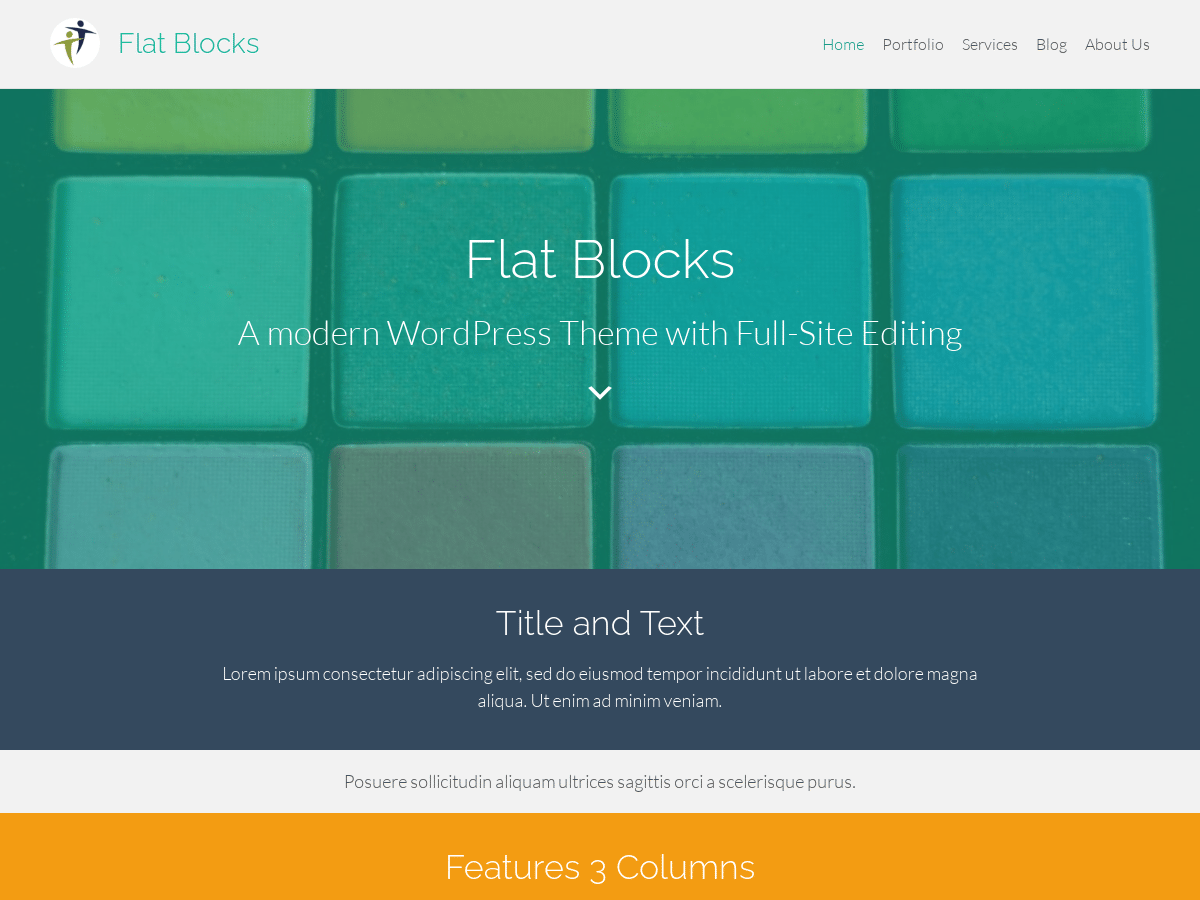
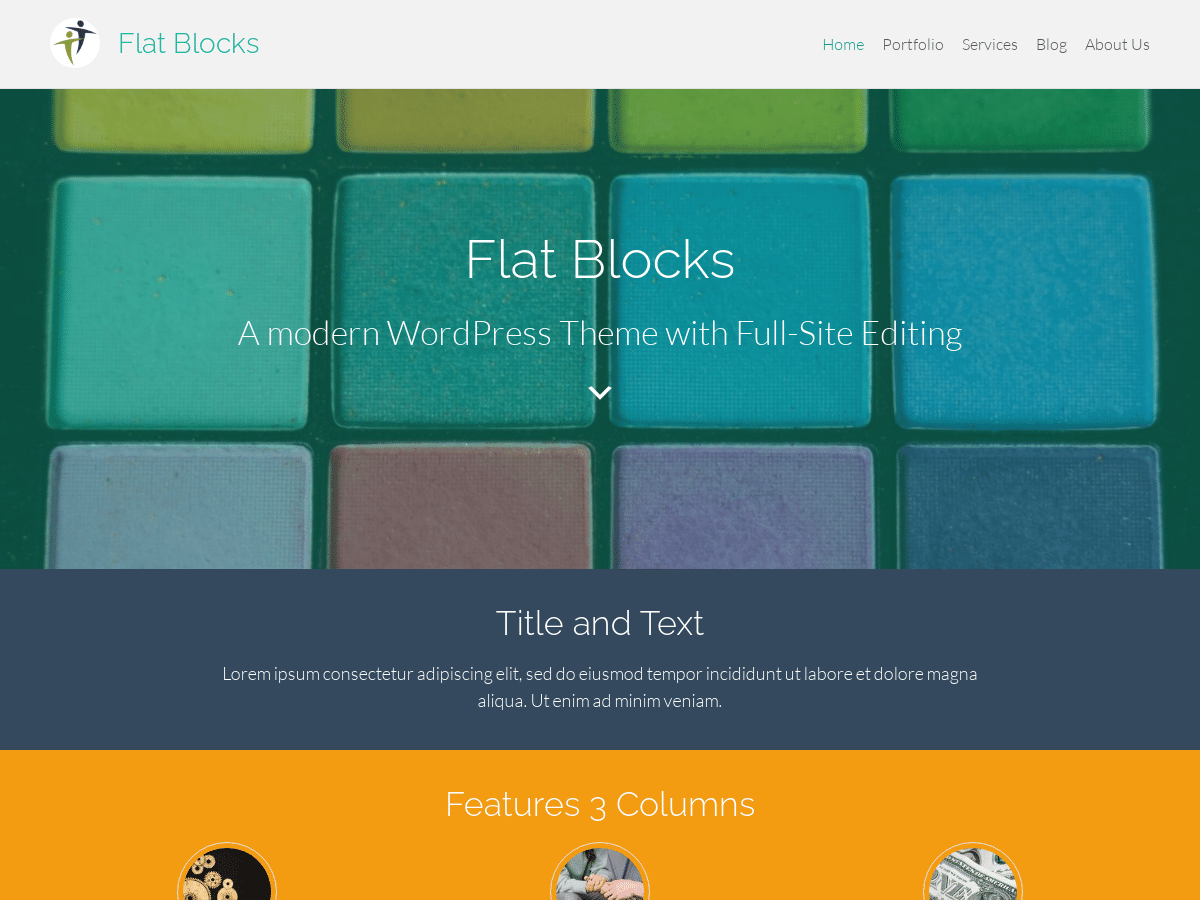
v1.3.4
* In header navigation, use the primary color as the link hover color. Note that if the header color is overriden by the user, this won't apply. The chosen color will just be lightened like it worked prior to this change.
* In header navigation, also highlight the current menu item (or parent item). By default, the primary color will be used (light green). On user-colored headers, bold will be used.
* Reduce default cover image overlay color to 40% (was 60%) on the colored block image to allow more of the image's natural colors to show through.
* Updated screenshot to reflect highlight of home page link and lightening of cover overlay in the site header.
* Remove automatically centering figure captions (image, table, etc.) since the user can specify what position they want it in.
* Added an anchor link of #wrapper at the top of each page for the theme preview on WordPress.org and for users with older navigation menus that point to that as it was the standard on older WordPress themes (before Block based themes). This theme uses #page and that still works as well.

diff --git a/assets/css/flat-blocks.css b/assets/css/flat-blocks.css
@@ -229,9 +229,9 @@ body .is-layout-constrained > .alignright {
 --------------------------------------------------------------*/
 
 /* Center captions by default */
-.wp-site-blocks figcaption {
+/**.wp-site-blocks figcaption {
 	text-align: center;
-}
+}**/
 
 /*--------------------------------------------------------------
 # Headings
@@ -301,6 +301,52 @@ h6.has-background {
     }
 }
 
+/* Navigation hover styles */
+.wp-block-group.site-header:not(.has-link-color) .wp-block-navigation__responsive-container:not(.has-text-color) .wp-block-navigation-item:hover,
+.wp-block-navigation__submenu-container:not(.has-text-color) .wp-block-navigation-item:hover,
+.wp-block-group.site-header:not(.has-link-color) .wp-block-navigation__responsive-container:not(.has-text-color) .wp-block-navigation-item__content:hover,
+.wp-block-navigation__submenu-container:not(.has-text-color) .wp-block-navigation-item__content:hover {
+	color: var(--wp--preset--color--primary-alt);
+	/*font-weight: var(--wp--custom--typography--font-weight--bold);*/
+	font-weight: inherit;
+}
+
+/* But on mobile nav, don't hover on non-clickable links */
+.wp-block-navigation__responsive-container.is-menu-open .wp-block-navigation-item.has-child.open-on-click > .wp-block-navigation-item:hover,
+.wp-block-navigation__responsive-container.is-menu-open .wp-block-navigation-item.has-child.open-on-click > .wp-block-navigation-item__content:hover {
+	color: inherit;
+	cursor: unset;
+	font-weight: inherit;
+	opacity: 1;
+}
+
+/* Bold or highlight active top-level menu items, depending on whether text color or not */
+.wp-block-group.site-header .wp-block-navigation__responsive-container .wp-block-navigation__container > .wp-block-navigation-item.current-menu-item:not(.has-child) > a,
+.wp-block-group.site-header .wp-block-navigation__responsive-container .wp-block-navigation__container > .wp-block-navigation-item:has(.current-menu-ancestor),
+.wp-block-group.site-header .wp-block-navigation__responsive-container .wp-block-navigation__container > .wp-block-navigation-item:has(.current-menu-ancestor) > a,
+.wp-block-group.site-header .wp-block-navigation__responsive-container .wp-block-page-list > .wp-block-pages-list__item.current-menu-item > a,
+.wp-block-group.site-header .wp-block-navigation__responsive-container .wp-block-navigation__container > .wp-block-navigation-item.wp-block-home-link > a[aria-current='page'] {
+	font-weight: var(--wp--custom--typography--font-weight--medium);
+}
+ 
+.wp-block-group.site-header:not(.has-link-color) .wp-block-navigation__responsive-container .wp-block-navigation__container > .wp-block-navigation-item.current-menu-item:not(.has-child) > a,
+.wp-block-group.site-header:not(.has-link-color) .wp-block-navigation__responsive-container .wp-block-navigation__container > .wp-block-navigation-item:has(.current-menu-ancestor),
+.wp-block-group.site-header:not(.has-link-color) .wp-block-navigation__responsive-container .wp-block-navigation__container > .wp-block-navigation-item:has(.current-menu-ancestor) > a,
+.wp-block-group.site-header:not(.has-link-color) .wp-block-navigation__responsive-container .wp-block-page-list > .wp-block-pages-list__item.current-menu-item > a,
+.wp-block-group.site-header:not(.has-link-color) .wp-block-navigation__responsive-container .wp-block-navigation__container > .wp-block-navigation-item.wp-block-home-link > a[aria-current='page'] {
+	color: var(--wp--preset--color--primary-alt);
+	font-weight: var(--wp--custom--typography--font-weight--normal);
+}
+
+/* Bold or highlight active sub-menu items, depending on whether text color or not */
+.wp-block-navigation__submenu-container .wp-block-navigation-item.current-menu-item .wp-block-navigation-item__content.wp-block-navigation-item__content {
+	font-weight: var(--wp--custom--typography--font-weight--medium);
+}
+.wp-block-navigation__submenu-container:not(.has-text-color) .wp-block-navigation-item.current-menu-item .wp-block-navigation-item__content.wp-block-navigation-item__content {
+	color: var(--wp--preset--color--primary-alt);
+	font-weight: inherit; /*var(--wp--custom--typography--font-weight--normal);*/
+}
+
 /* Style the mobile nav menu open and close buttons */
 .wp-block-navigation .wp-block-navigation__responsive-container-open,
 .wp-block-navigation .wp-block-navigation__responsive-container-close {
@@ -308,6 +354,11 @@ h6.has-background {
 	border: 1px solid var(--wp--preset--color--neutral-alt);
 	border-radius: var(--wp--custom--border--radius);
 	padding: var(--wp--preset--spacing--20);
+}
+
+/* On colored navs, round out the mobile nav container to match our open/close menu buttons */
+.wp-block-navigation.has-text-color:has(.wp-block-navigation__responsive-container:not(.is-menu-open.is-menu-open)) {
+	border-radius: var(--wp--custom--border--radius);
 }
 
 /* 

diff --git a/patterns/cover-scroll-home-header.html b/patterns/cover-scroll-home-header.html
@@ -1,5 +1,5 @@
 <!-- wp:cover {"url":"/assets/images/cover-colored-blocks.jpg","id":8595,"dimRatio":60,"overlayColor":"primary","textColor":"foreground-alt","minHeight":480,"isDark":false,"align":"full","style":{"spacing":{"margin":{"top":"0"}}}} -->
-<div class="wp-block-cover alignfull is-light has-foreground-alt-color has-text-color" style="min-height:480px;margin-top:0;" id="cover-scroll-home-header"><span aria-hidden="true" class="wp-block-cover__background has-primary-background-color has-background-dim-60 has-background-dim"></span><img class="wp-block-cover__image-background wp-image-8595" alt="" src="/assets/images/cover-colored-blocks.jpg" data-object-fit="cover"/><div class="wp-block-cover__inner-container"><!-- wp:site-title {"textAlign":"center","isLink":false,"style":{"elements":{"link":{"color":{"text":"var:preset|color|foreground-alt"}}}},"textColor":"foreground-alt","fontSize":"huge"} /-->
+<div class="wp-block-cover alignfull is-light has-foreground-alt-color has-text-color" style="min-height:480px;margin-top:0;" id="cover-scroll-home-header"><span aria-hidden="true" class="wp-block-cover__background has-primary-background-color has-background-dim-40 has-background-dim"></span><img class="wp-block-cover__image-background wp-image-8595" alt="" src="/assets/images/cover-colored-blocks.jpg" data-object-fit="cover"/><div class="wp-block-cover__inner-container"><!-- wp:site-title {"textAlign":"center","isLink":false,"style":{"elements":{"link":{"color":{"text":"var:preset|color|foreground-alt"}}}},"textColor":"foreground-alt","fontSize":"huge"} /-->
 
 <!-- wp:site-tagline {"textAlign":"center","textColor":"foreground-alt","fontSize":"larger"} /-->
 

diff --git a/patterns/cover-scroll-colored-blocks.html b/patterns/cover-scroll-colored-blocks.html
@@ -1,5 +1,5 @@
 <!-- wp:cover {"url":"/assets/images/cover-colored-blocks.jpg","id":8595,"dimRatio":60,"overlayColor":"primary","textColor":"foreground-alt","minHeight":480,"isDark":false,"align":"full","style":{"spacing":{"margin":{"top":"0"}}}} -->
-<div class="wp-block-cover alignfull is-light has-foreground-alt-color has-text-color" style="min-height:480px;margin-top:0;" id="cover-scroll-colored-blocks"><span aria-hidden="true" class="wp-block-cover__background has-primary-background-color has-background-dim-60 has-background-dim"></span><img class="wp-block-cover__image-background wp-image-8595" alt="" src="/assets/images/cover-colored-blocks.jpg" data-object-fit="cover"/><div class="wp-block-cover__inner-container">
+<div class="wp-block-cover alignfull is-light has-foreground-alt-color has-text-color" style="min-height:480px;margin-top:0;" id="cover-scroll-colored-blocks"><span aria-hidden="true" class="wp-block-cover__background has-primary-background-color has-background-dim-40 has-background-dim"></span><img class="wp-block-cover__image-background wp-image-8595" alt="" src="/assets/images/cover-colored-blocks.jpg" data-object-fit="cover"/><div class="wp-block-cover__inner-container">
 <!-- wp:group -->
 <div class="wp-block-group"><!-- wp:heading {"textAlign":"center","placeholder":"Cover Image Title","textColor":"foreground-alt","fontSize":"huge"} -->
 <h2 class="wp-block-heading has-text-align-center has-foreground-alt-color has-text-color has-huge-font-size" id="title">Cover Scroll Colored Blocks</h2>

diff --git a/style.css b/style.css
@@ -7,7 +7,7 @@ Description: Flat Blocks is a modern “flat” style theme with a nice color pa
 Requires at least: 6.2
 Tested up to: 6.3
 Requires PHP: 7.4
-Version: 1.3.3
+Version: 1.3.4
 License: GNU General Public License v2 or later
 License URI: http://www.gnu.org/licenses/gpl-2.0.html
 Text Domain: flat-blocks

diff --git a/functions.php b/functions.php
@@ -232,7 +232,7 @@ if ( file_exists( get_template_directory() . '/pro/flat-blocks-pro.php' ) ) {
  * because there is currently no way to add an id to the wp-site-blocks wrapper and 
  * we need this to be the very first thing on the page.
  */
-add_action( 'wp_body_open', function() { echo '<a id="page"></a>'; } );
+add_action( 'wp_body_open', function() { echo '<a id="page"></a><a id="wrapper"></a>'; } );
 
 /**
  * Define our custom template part AREAS
